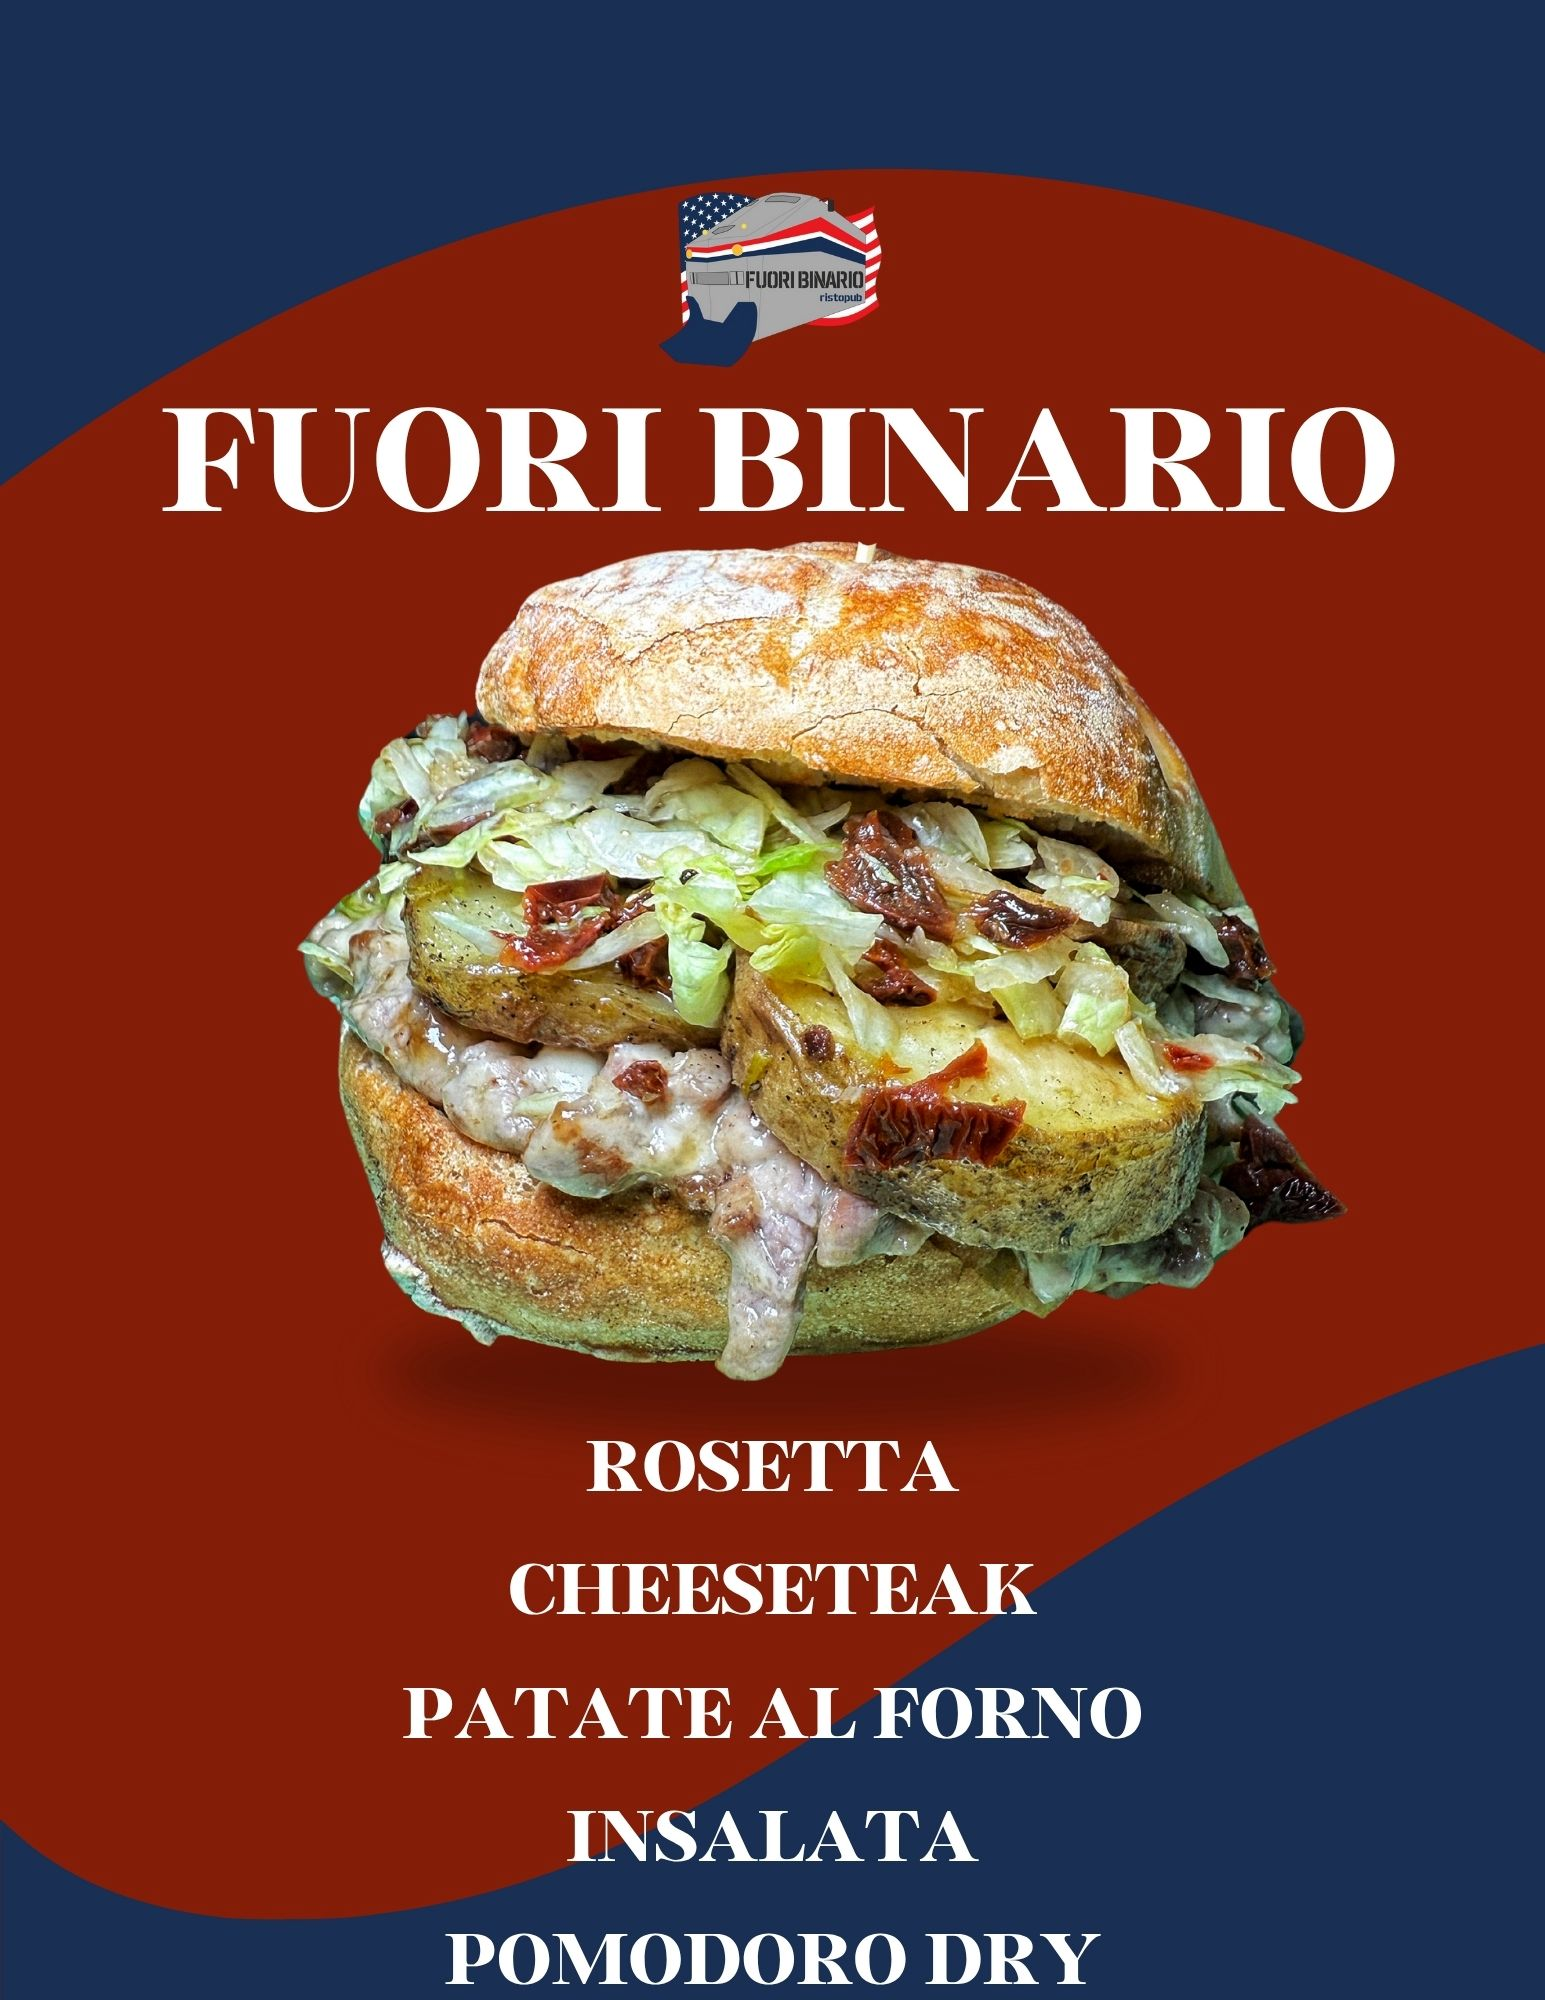
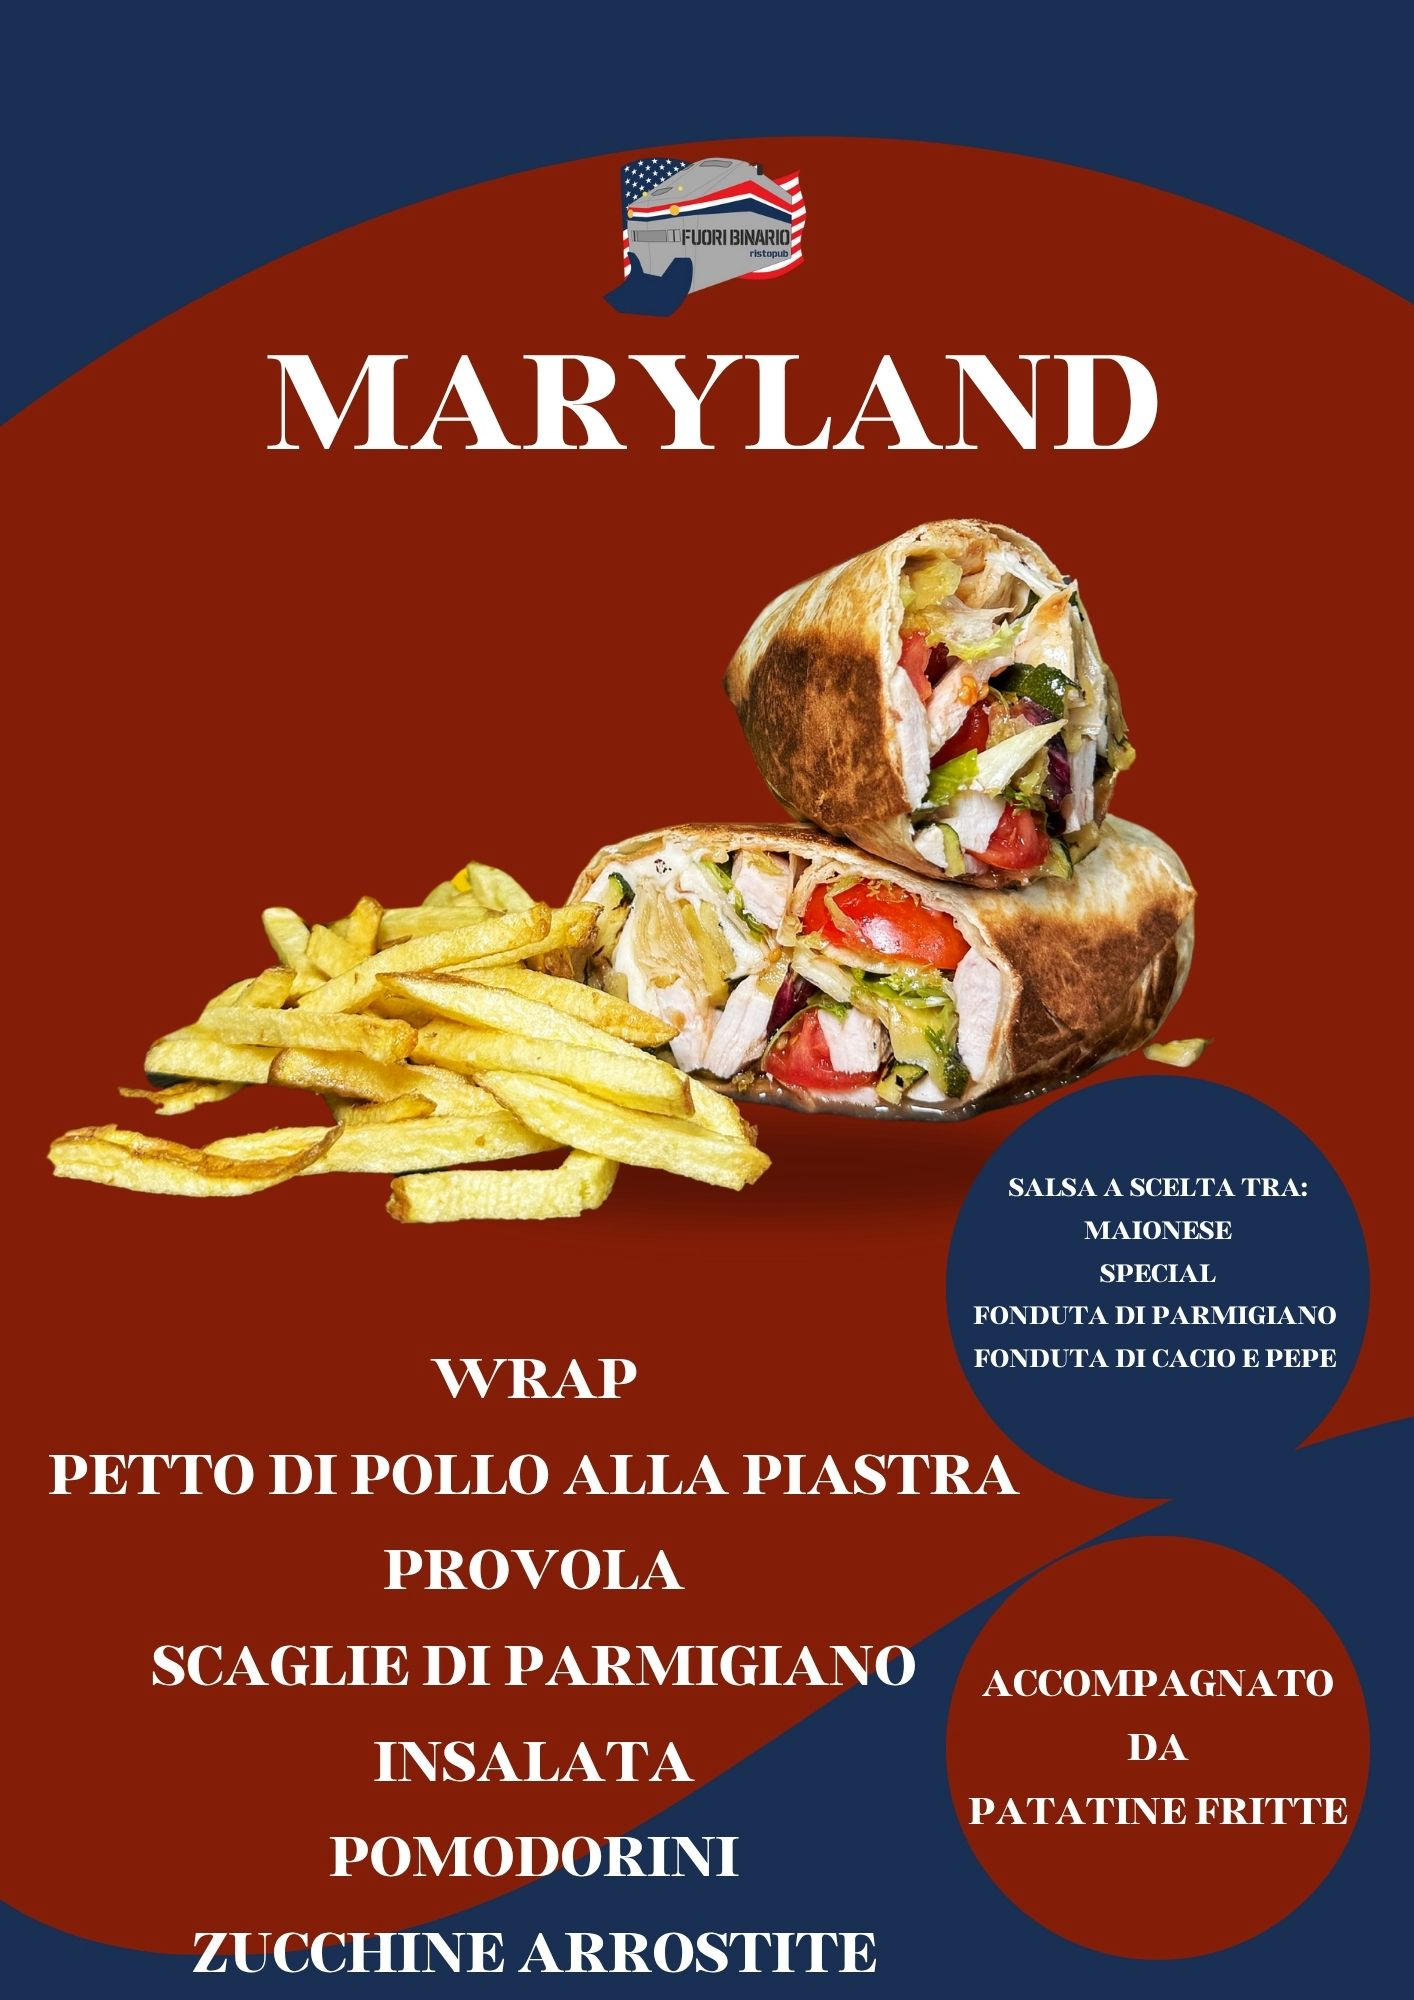
aggiornamneto

diff --git a/src/FoodStore/FoodStore.ts b/src/FoodStore/FoodStore.ts
@@ -151,8 +151,8 @@ const BIBITE : FoodStore[] = [
 const BIRREALLASPINA : FoodStore[] = [
   { name: "BROOKLYN PILSNER", price: 4, qt: 1, ingredients: ["25cl"] , img:""},
   { name: "BROOKLYN PILSNER", price: 6.50, qt: 1, ingredients: ["40cl"] , img:""},
-  { name: "BROOKLYN IPA", price: 4.50, qt: 1, ingredients: ["25cl"] , img:""},
-  { name: "BROOKLYN IPA", price: 8.50, qt: 1, ingredients: ["40cl"] , img:""},
+  { name: "TUCHER WEIZEN", price: 4.50, qt: 1, ingredients: ["25cl"] , img:""},
+  { name: "TUCHER WEIZEN", price: 8.50, qt: 1, ingredients: ["40cl"] , img:""},
   { name: "GRIMBERGEN (blonde)", price: 4.00, qt: 1, ingredients: ["25cl"] , img:""},
   { name: "GRIMBERGEN (blonde)", price: 8.00, qt: 1, ingredients: ["50cl"] , img:""},
   { name: "GRIMBERGEN (Double ambrèe)", price: 4.00, qt: 1, ingredients: ["25cl"] , img:""},
